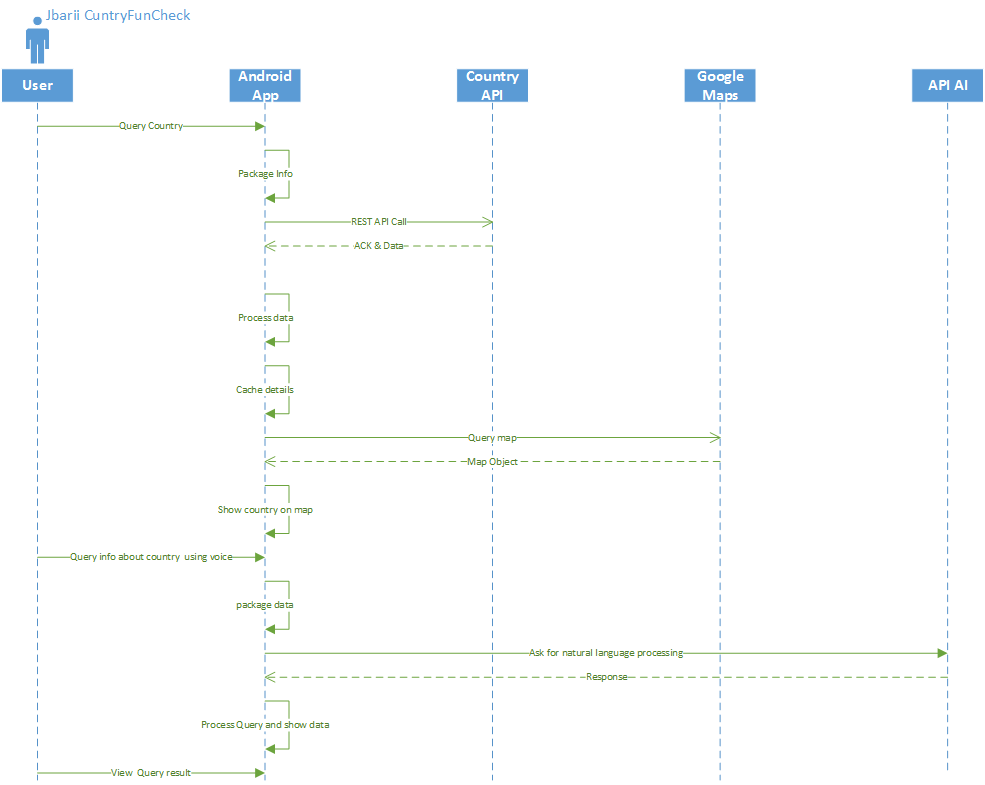
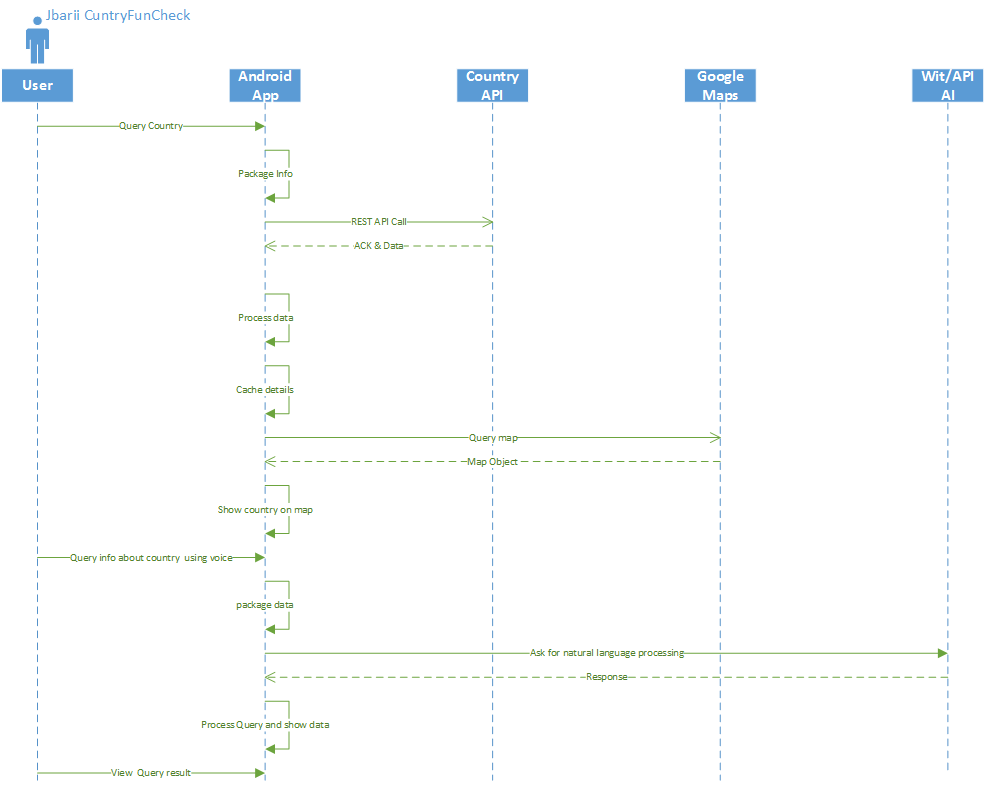
update docs commit

diff --git a/jmmaina1.md b/jmmaina1.md
@@ -6,7 +6,7 @@ interrogate the data once the user has given the country.
 The application has utilized the following public APIs:
 1.CountryAPI to search for countries data
 2.Google Maps to display the searched country on a map
-3.API AI to enable voice based enquiry about weather and other interesting things about the searched country.
+3.API AI and Wit API to enable voice based enquiry about weather and other interesting things about the searched country.
 
 The application uses asynch calls in android to handle UI latency.
 It also employs background threads when making calls to the various APIs.
